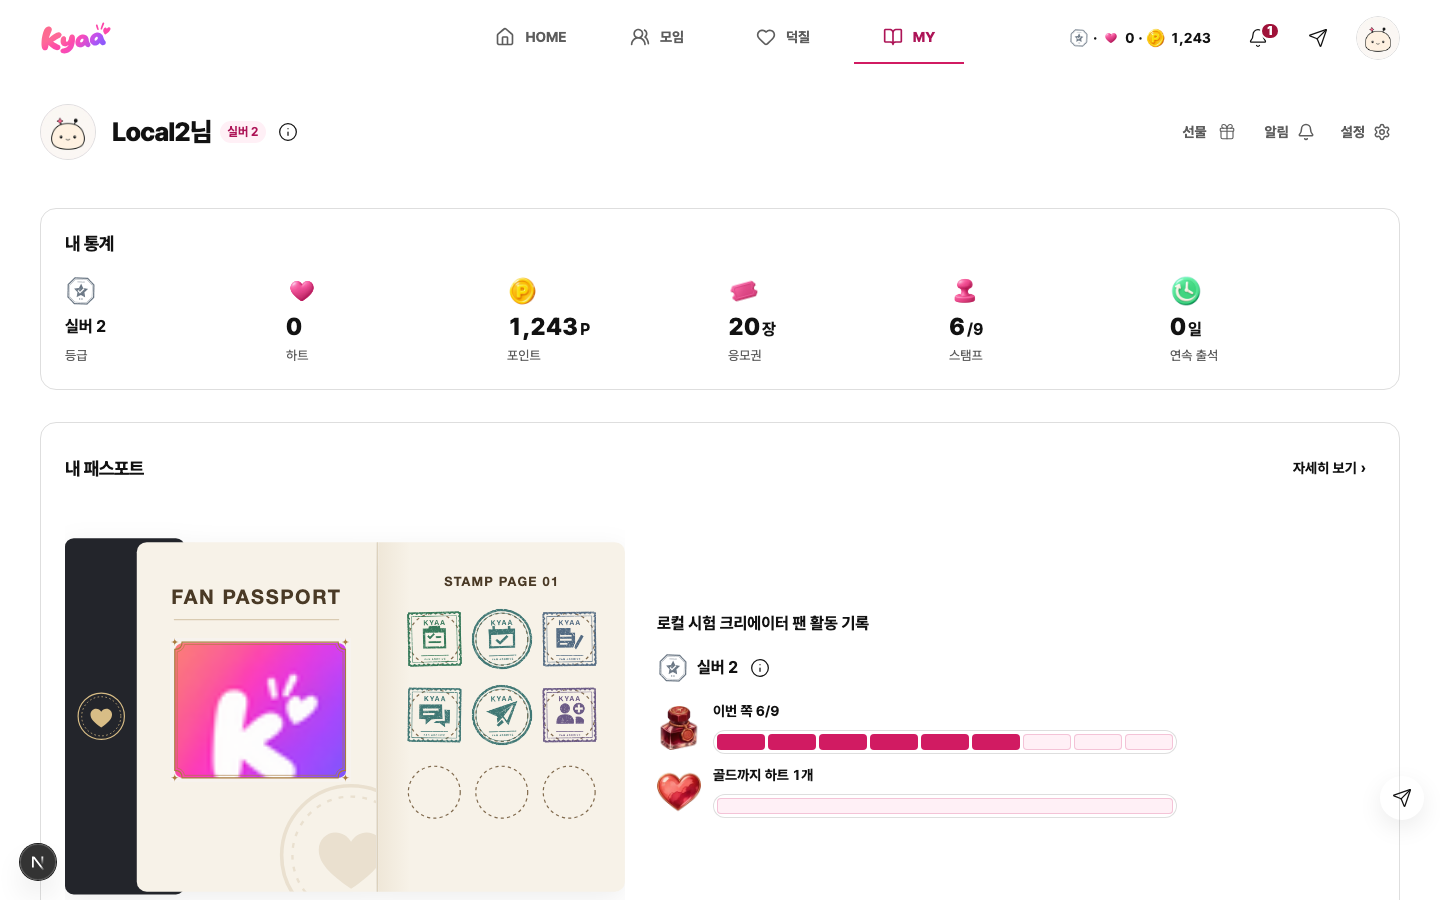
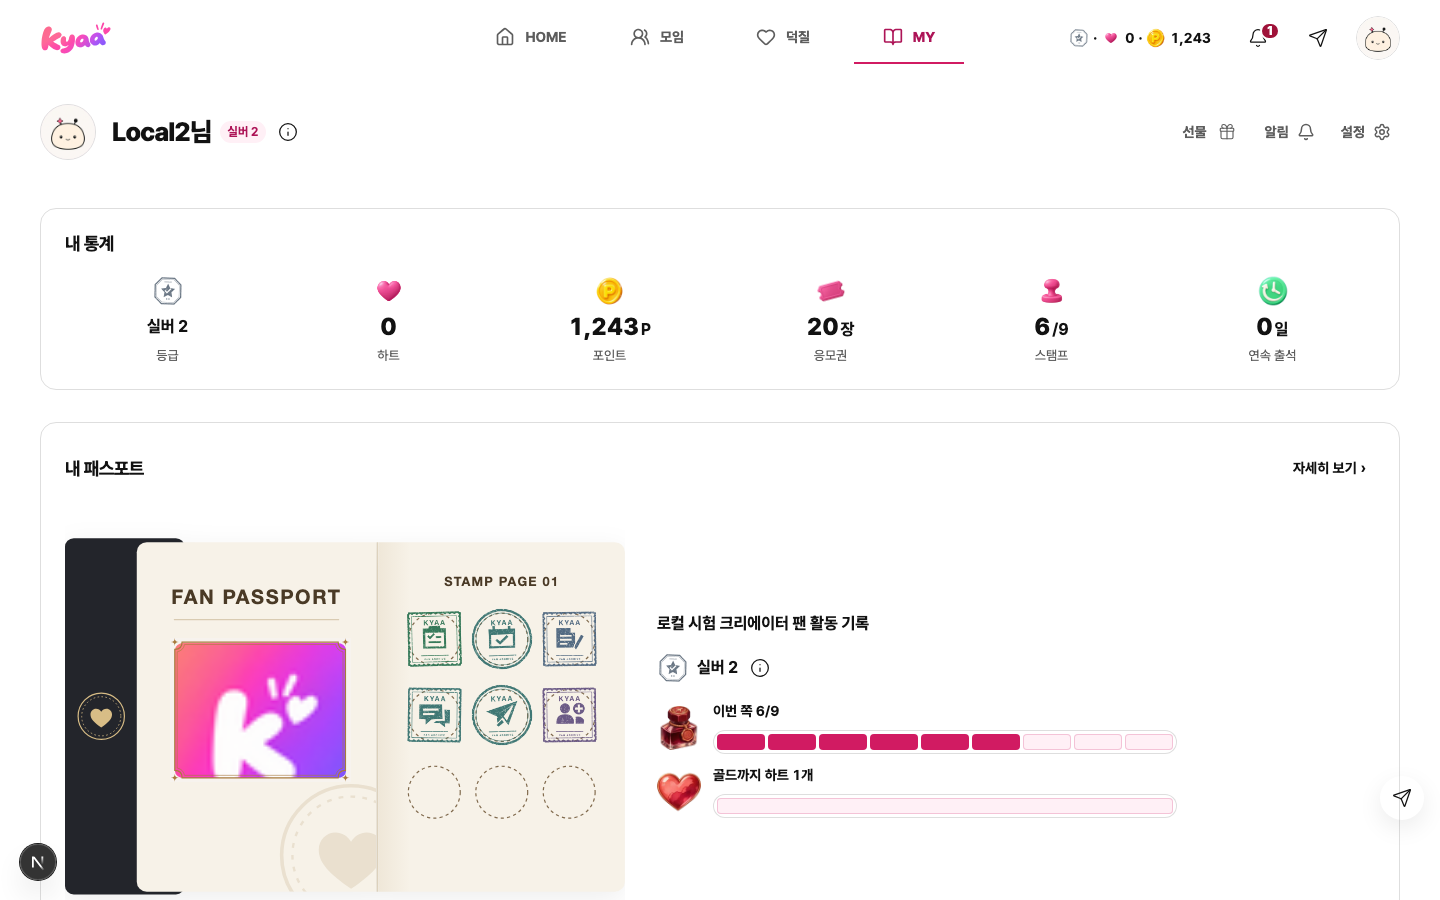
fix(my): keep large stats inside their cells and centre the PC row
- Short form drops the decimal once the short number has three digits
  (123만P fits the 95px column at 390; 1.2M stays), with a thin space
  before P after a Latin suffix (12.3K P).
- 768+: the six cells centre their content so the row does not read as
  six numbers pushed to the left of wide columns.
- Test: the stats follow the passport picked in the passport card.

diff --git a/apps/web/features/my/ui/my-screen-groups.test.tsx b/apps/web/features/my/ui/my-screen-groups.test.tsx
@@ -110,6 +110,14 @@ it('switches the passport card to the other favorite', () => {
   const card = screen.getByRole('region', { name: '내 패스포트' });
   expect(within(card).getByText('이번 쪽 1/9')).toBeInTheDocument();
   expect(within(card).getByText('실버까지 도장 1칸')).toBeInTheDocument();
+  // 내 통계도 같은 패스포트를 따른다: 등급·하트·스탬프는 고른 최애의 것이다.
+  const stats = screen.getByRole('region', { name: '내 통계' });
+  // 값이 바뀌면 숫자가 카운트업하므로, 화면 판독기가 읽는 최종 값(aria-hidden 제외)을 본다.
+  const value = (label: string) => { const dd = within(stats).getByText(label).closest('div')!.querySelector('dd')!.cloneNode(true) as HTMLElement; dd.querySelectorAll('[aria-hidden="true"]').forEach((node) => node.remove()); return dd.textContent; };
+  expect(value('등급')).toBe('브론즈');
+  expect(within(screen.getByRole('heading', { level: 1, name: '별빛님' }).parentElement as HTMLElement).getByText('브론즈')).toBeInTheDocument();
+  expect(value('하트')).toBe('—');
+  expect(value('스탬프')).toBe('1/9');
 });
 
 it('shows my stats between the profile and the passport as numbers only', () => {
@@ -129,11 +137,19 @@ it('shows my stats between the profile and the passport as numbers only', () => 
   expect(within(stats).queryByRole('button')).toBeNull();
 });
 
-it('shows points from 10,000 in the short form', () => {
+it('shows points from 10,000 in the short form and drops the decimal once the short number has three digits', () => {
+  data.wallet = { points: 1_234_567, tickets: 0, pointCost: 100, attendance: { streak: 0 } };
+  const { unmount } = renderMy();
+  expect(within(screen.getByRole('region', { name: '내 통계' })).getByText('포인트').closest('div')!.querySelector('dd')!.textContent).toBe('123만P');
+  unmount();
   data.wallet = { points: 12_345, tickets: 0, pointCost: 100, attendance: { streak: 0 } };
-  renderMy('en');
+  const { unmount: unmountEn } = renderMy('en');
   const stats = screen.getByRole('region', { name: 'My stats' });
-  expect(within(stats).getByText('Points').closest('div')!.querySelector('dd')!.textContent).toBe('12.3KP');
+  expect(within(stats).getByText('Points').closest('div')!.querySelector('dd')!.textContent).toBe('12.3K\u2009P');
+  unmountEn();
+  data.wallet = { points: 1_234_567, tickets: 0, pointCost: 100, attendance: { streak: 0 } };
+  renderMy('en');
+  expect(within(screen.getByRole('region', { name: 'My stats' })).getByText('Points').closest('div')!.querySelector('dd')!.textContent).toBe('1.2M\u2009P');
 });
 
 it('does not duplicate the wallet on MY', () => {

diff --git a/apps/web/features/my/ui/my-stats.tsx b/apps/web/features/my/ui/my-stats.tsx
@@ -27,12 +27,15 @@ const COMPACT_FROM = 10_000;
 function Value({ locale, slot, unit }: { locale: AppLocale; slot: Slot; unit?: string }) {
   if (slot === "loading") return <FanSkeleton width={48} height={24} />;
   if (slot === "missing") return <FanText role="item" className={styles.muted}>—</FanText>;
-  // From 10,000 the short form (1.2만, 12.3K) keeps every cell on its line; 덕질 keeps the exact number. The short word rides in the unit.
+  // From 10,000 the short form (1.2만, 12.3K, 1.2M; no decimal once the short number has three digits: 123만) keeps every cell inside its 95px column at 390; 덕질 keeps the exact number. The short word rides in the unit.
   if (slot >= COMPACT_FROM) {
-    const parts = new Intl.NumberFormat(locale, { notation: "compact", maximumFractionDigits: 1 }).formatToParts(slot);
+    const compact = (digits: number) => new Intl.NumberFormat(locale, { notation: "compact", maximumFractionDigits: digits }).formatToParts(slot);
+    const oneDecimal = compact(1);
+    const parts = (oneDecimal.find((part) => part.type === "integer")?.value.length ?? 0) >= 3 ? compact(0) : oneDecimal;
     const short = Number(parts.filter((part) => ["integer", "decimal", "fraction"].includes(part.type)).map((part) => part.type === "decimal" ? "." : part.value).join(""));
     const word = parts.filter((part) => part.type === "compact" || part.type === "literal").map((part) => part.value).join("").trim();
-    return <FanNumber size="lg" value={short} locale={locale} unit={`${word}${unit ?? ""}`} />;
+    // 12.3K P: a Latin short word and the unit read as one word without a thin space between them (1.2만P needs none).
+    return <FanNumber size="lg" value={short} locale={locale} unit={unit && /[A-Za-z]$/.test(word) ? `${word}\u2009${unit}` : `${word}${unit ?? ""}`} />;
   }
   return <FanNumber size="lg" value={slot} countUp locale={locale} unit={unit} />;
 }

diff --git a/apps/web/features/my/ui/my-stats.module.css b/apps/web/features/my/ui/my-stats.module.css
@@ -14,5 +14,6 @@
 .value { grid-area:value; display:flex; min-width:0; min-block-size:24px; align-items:center; margin:0; overflow-wrap:anywhere; word-break:keep-all; }
 .muted { color:var(--color-muted); }
 .emptyTier { inline-size:28px; block-size:28px; border:1.5px dashed var(--color-accent-line); border-radius:50%; }
-@media (width >= 48rem) { .grid { grid-template-columns:repeat(6,minmax(0,1fr)); } }
+/* 768+: 6칸을 한 줄로 펴고, 넓은 폭에서 왼쪽에 붙은 숫자가 흩어져 보이지 않게 칸 가운데로 모은다. */
+@media (width >= 48rem) { .grid { grid-template-columns:repeat(6,minmax(0,1fr)); } .cell { justify-items:center; text-align:center; } .value { justify-content:center; } }
 @media (width < 30rem) { .card { padding:var(--space-5); } }
